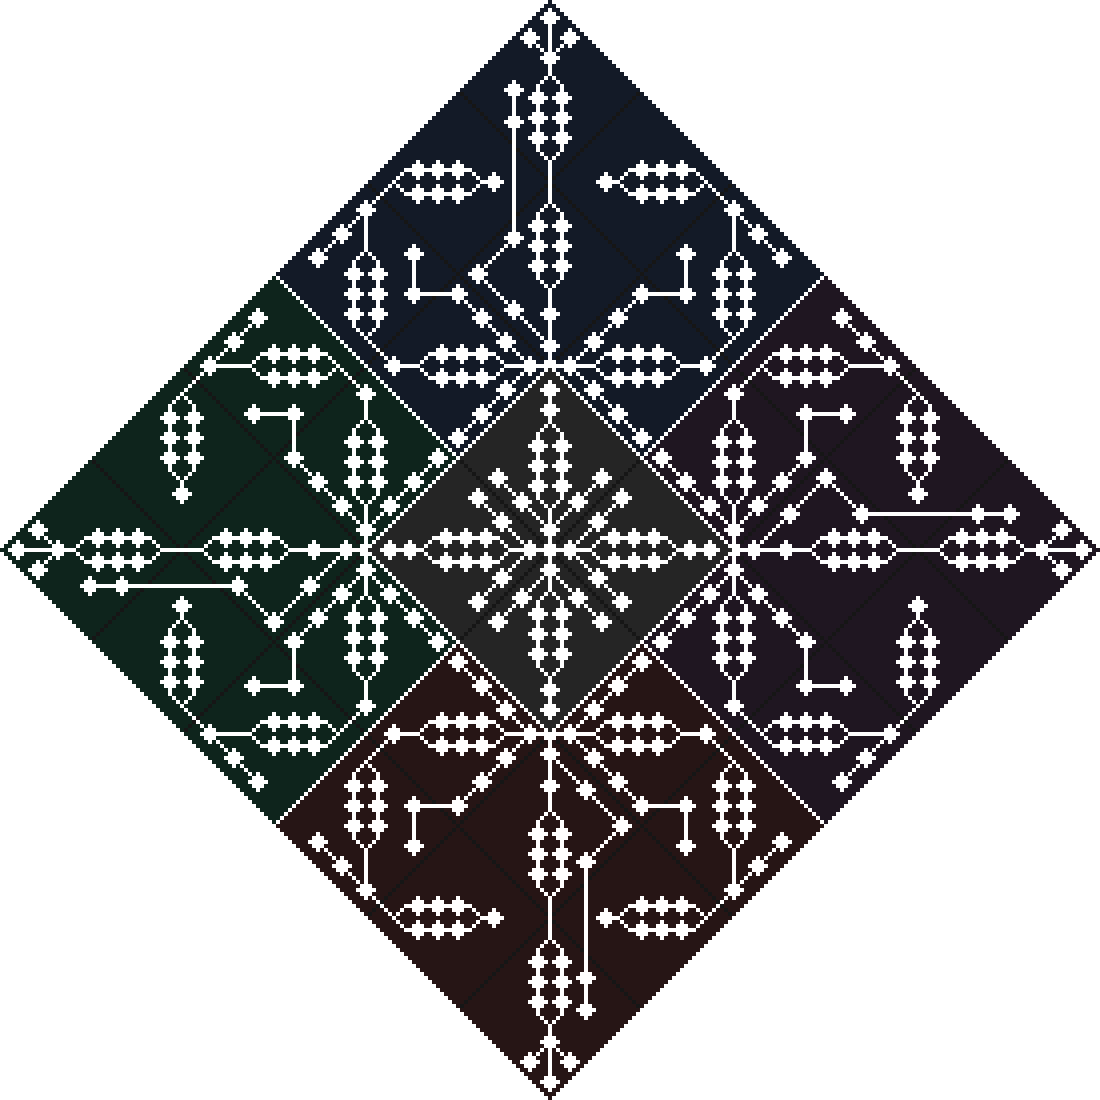
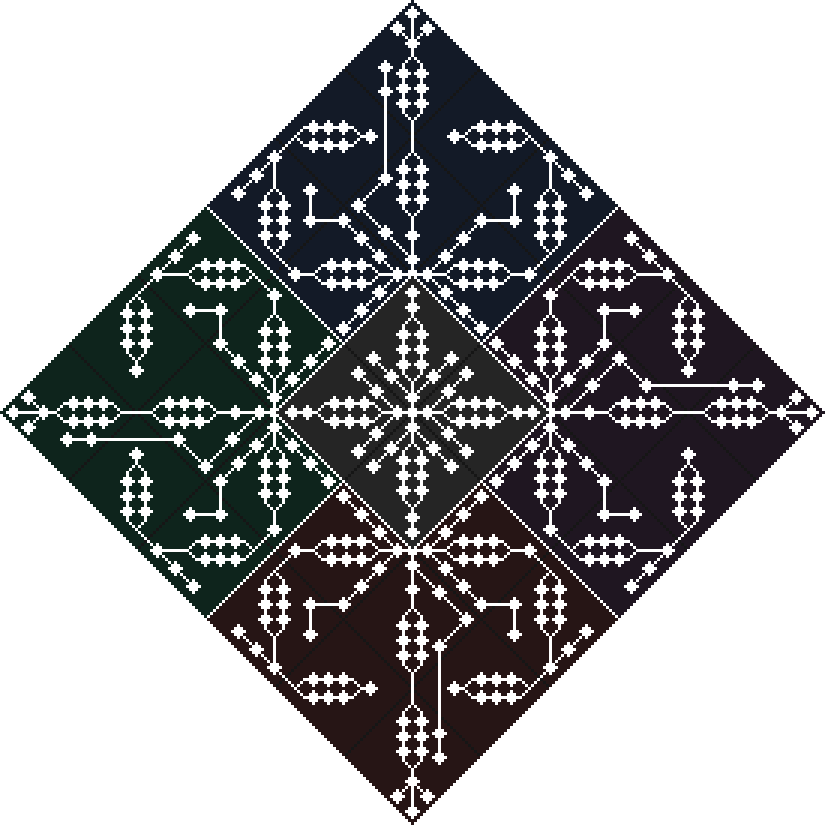
Fixed Image size

diff --git a/Circuits.java b/Circuits.java
@@ -44,7 +44,7 @@ class Circuits extends PApplet{
         updatePixels();
     }
 
-    int size = 21;
+    int size = 15;
 
     class MidPoint {
         Point coord;
